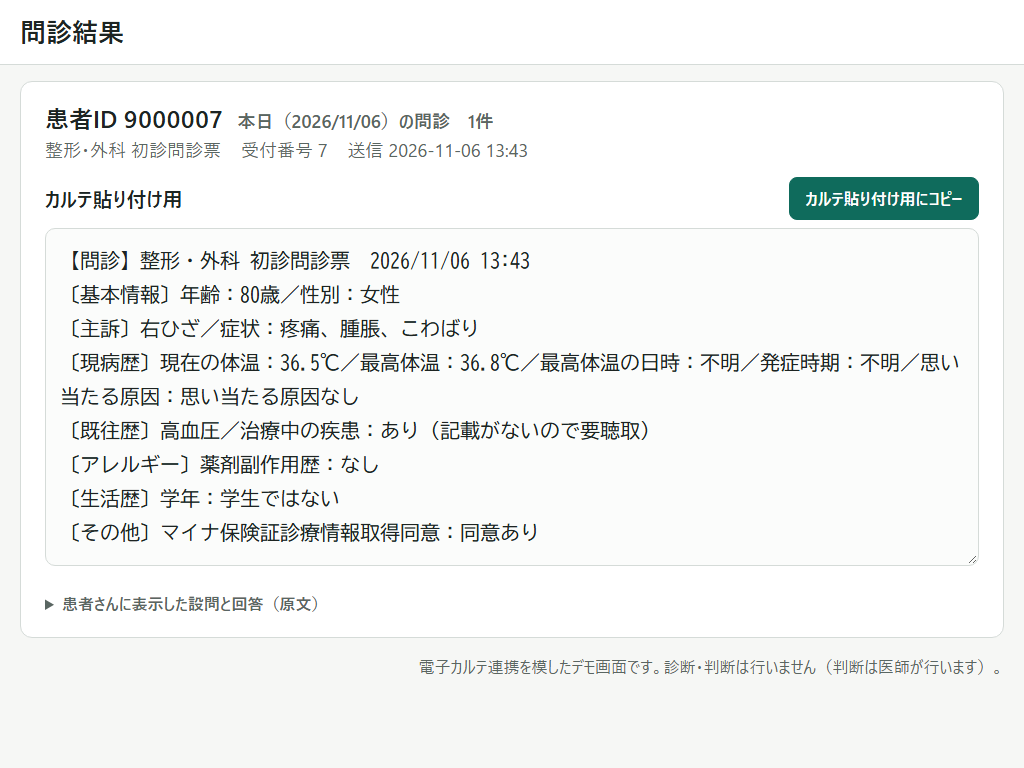
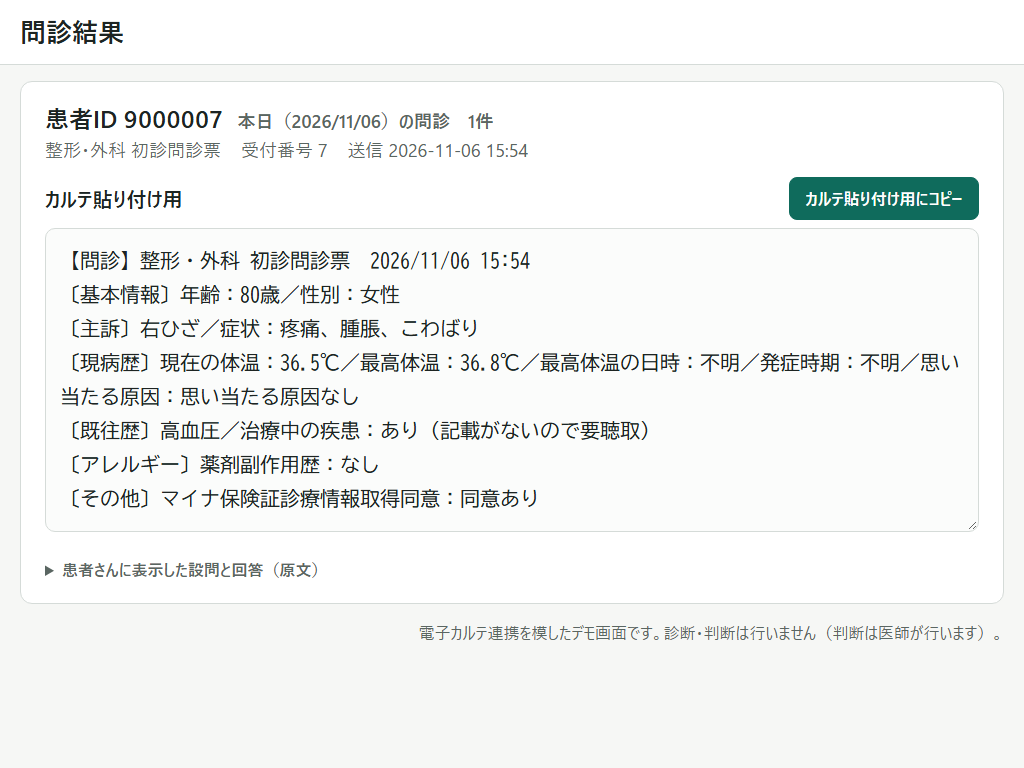
README の画面写真を撮り直す（訳を公開した状態・学年の出し分けを直したあとの状態）

diff --git a/README.md b/README.md
@@ -123,7 +123,7 @@ flowchart LR
 電子カルテの患者画面から開く想定です（`/karte?pcode=患者ID`）。その患者さんの当日の問診が、カルテに貼り付ける文で出ます。
 
 ```
-【問診】整形・外科 初診問診票　2026/11/06 13:43
+【問診】整形・外科 初診問診票　2026/11/06 15:54
 〔基本情報〕年齢：80歳／性別：女性
 〔主訴〕右ひざ／症状：疼痛、腫脹、こわばり
 〔現病歴〕現在の体温：36.5℃／最高体温：36.8℃／最高体温の日時：不明／発症時期：不明／思い当たる原因：思い当たる原因なし
